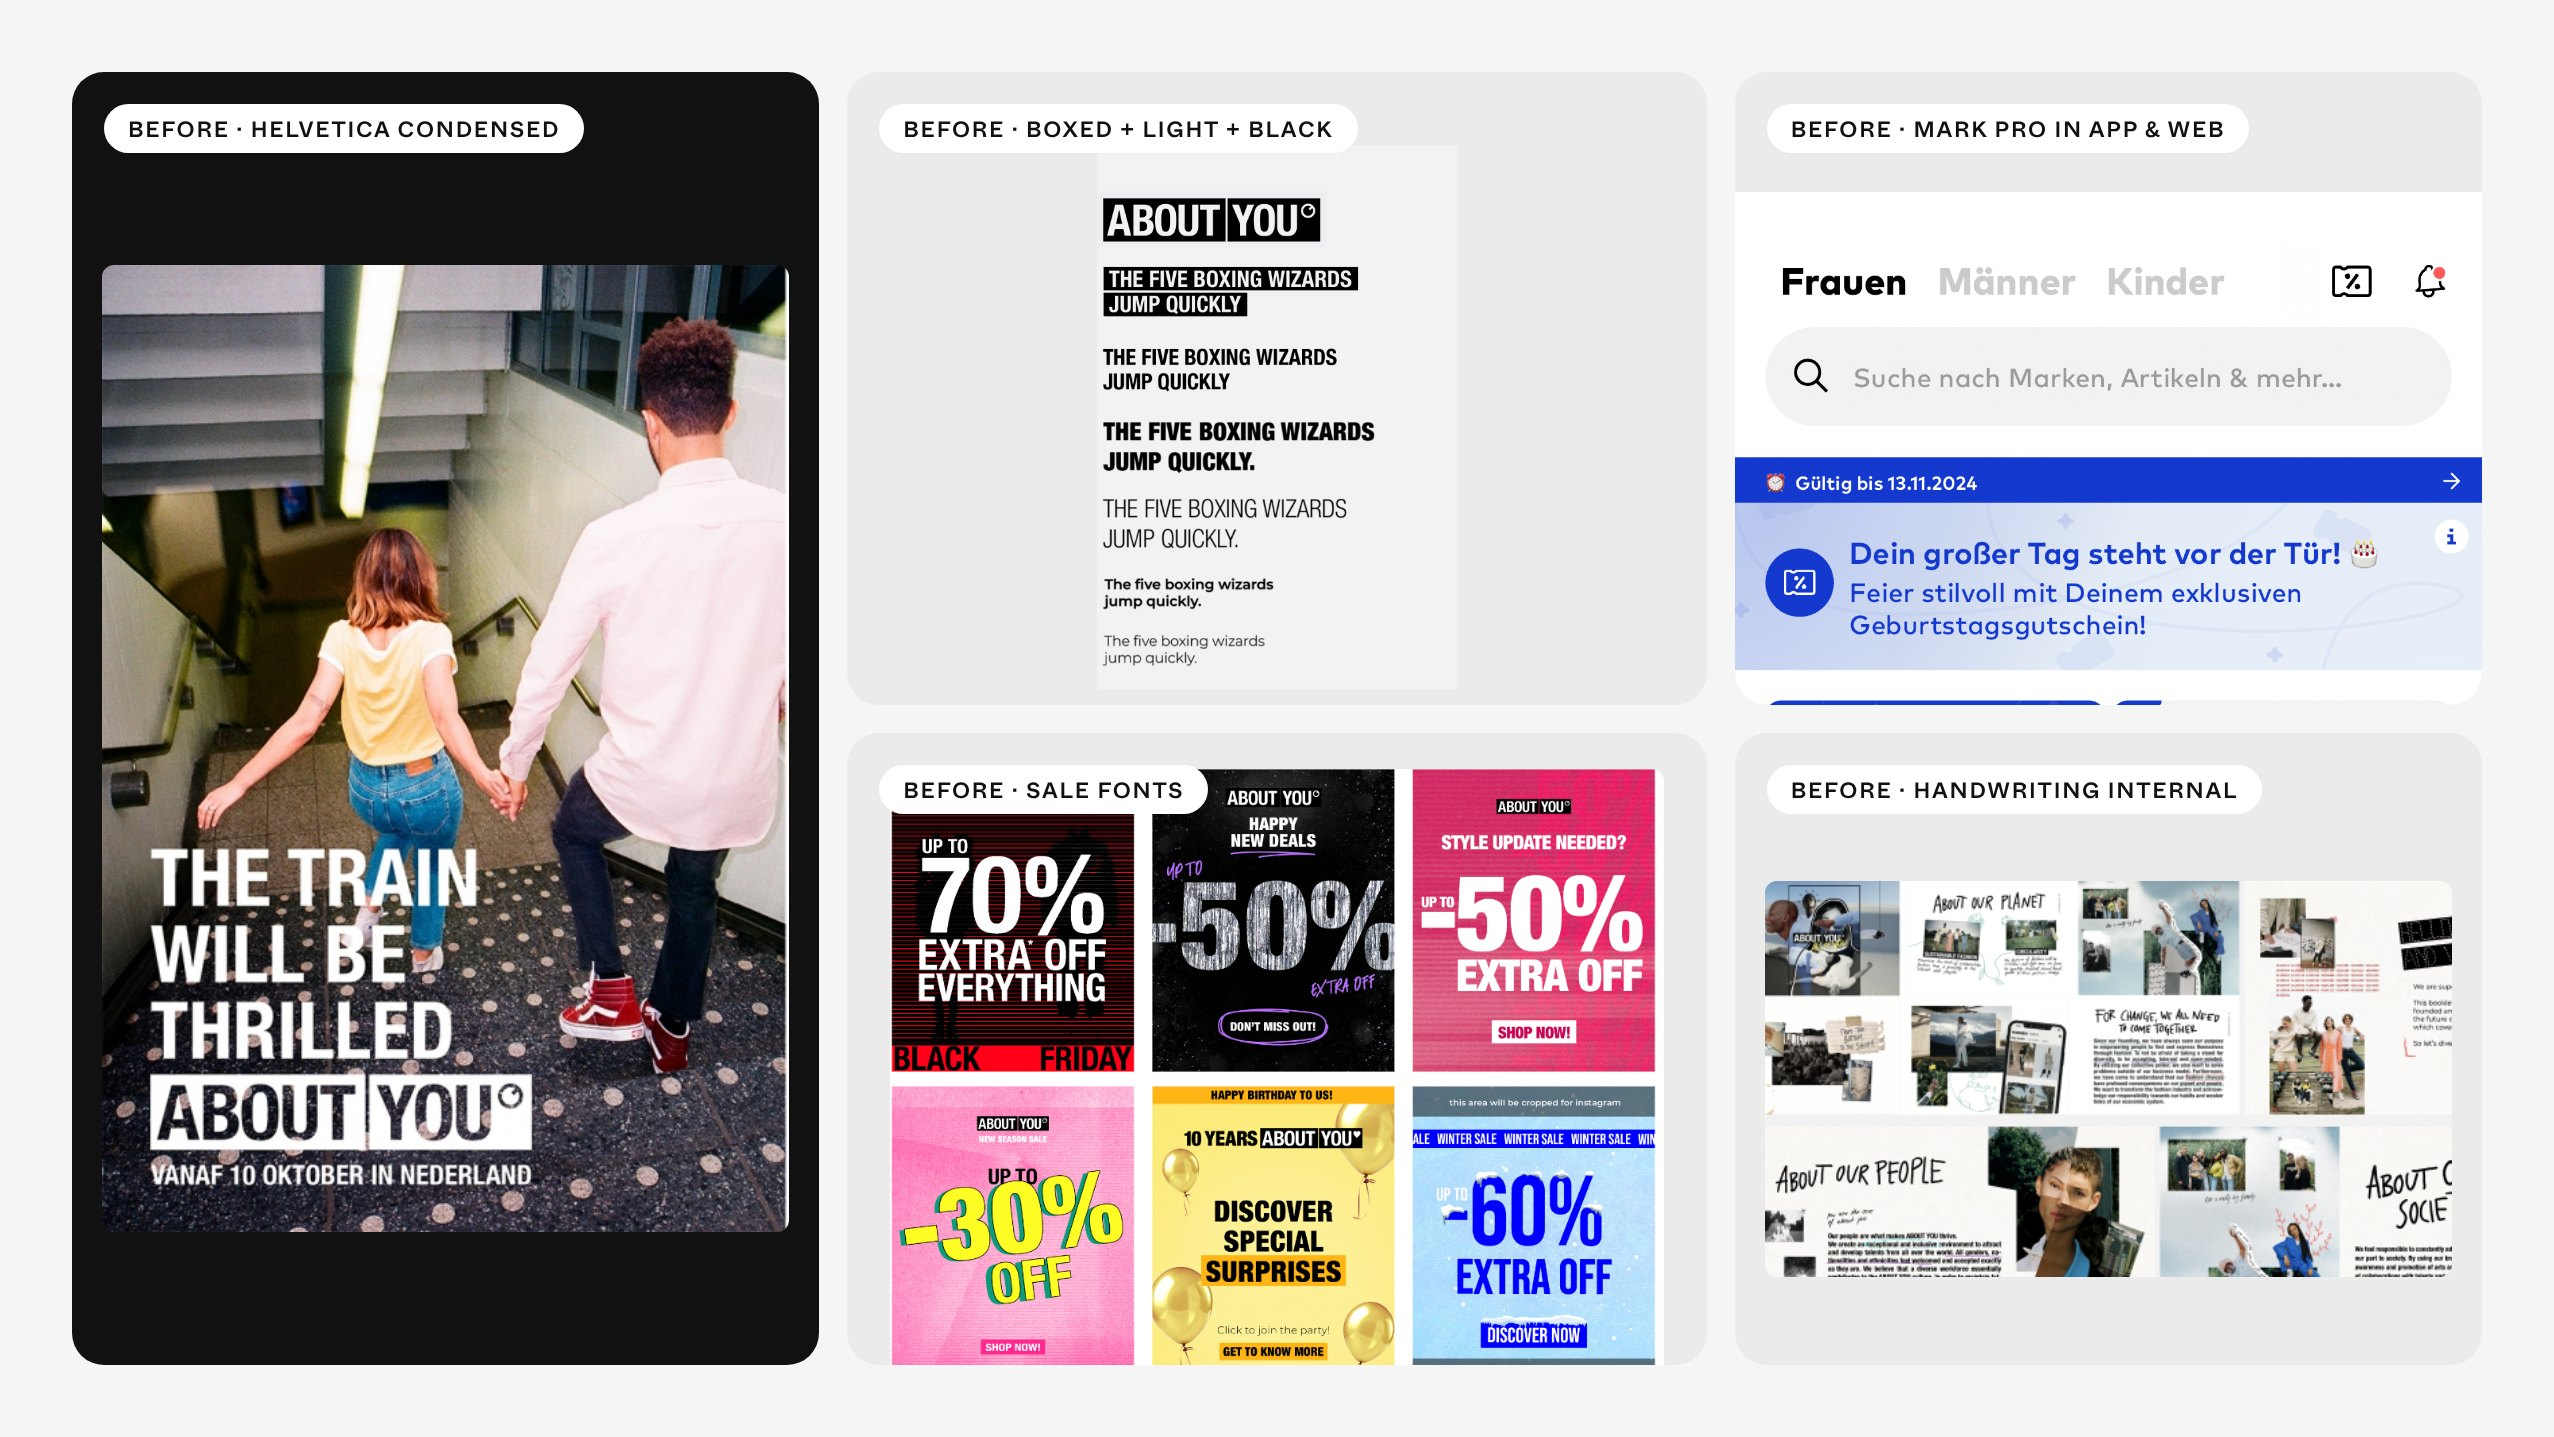
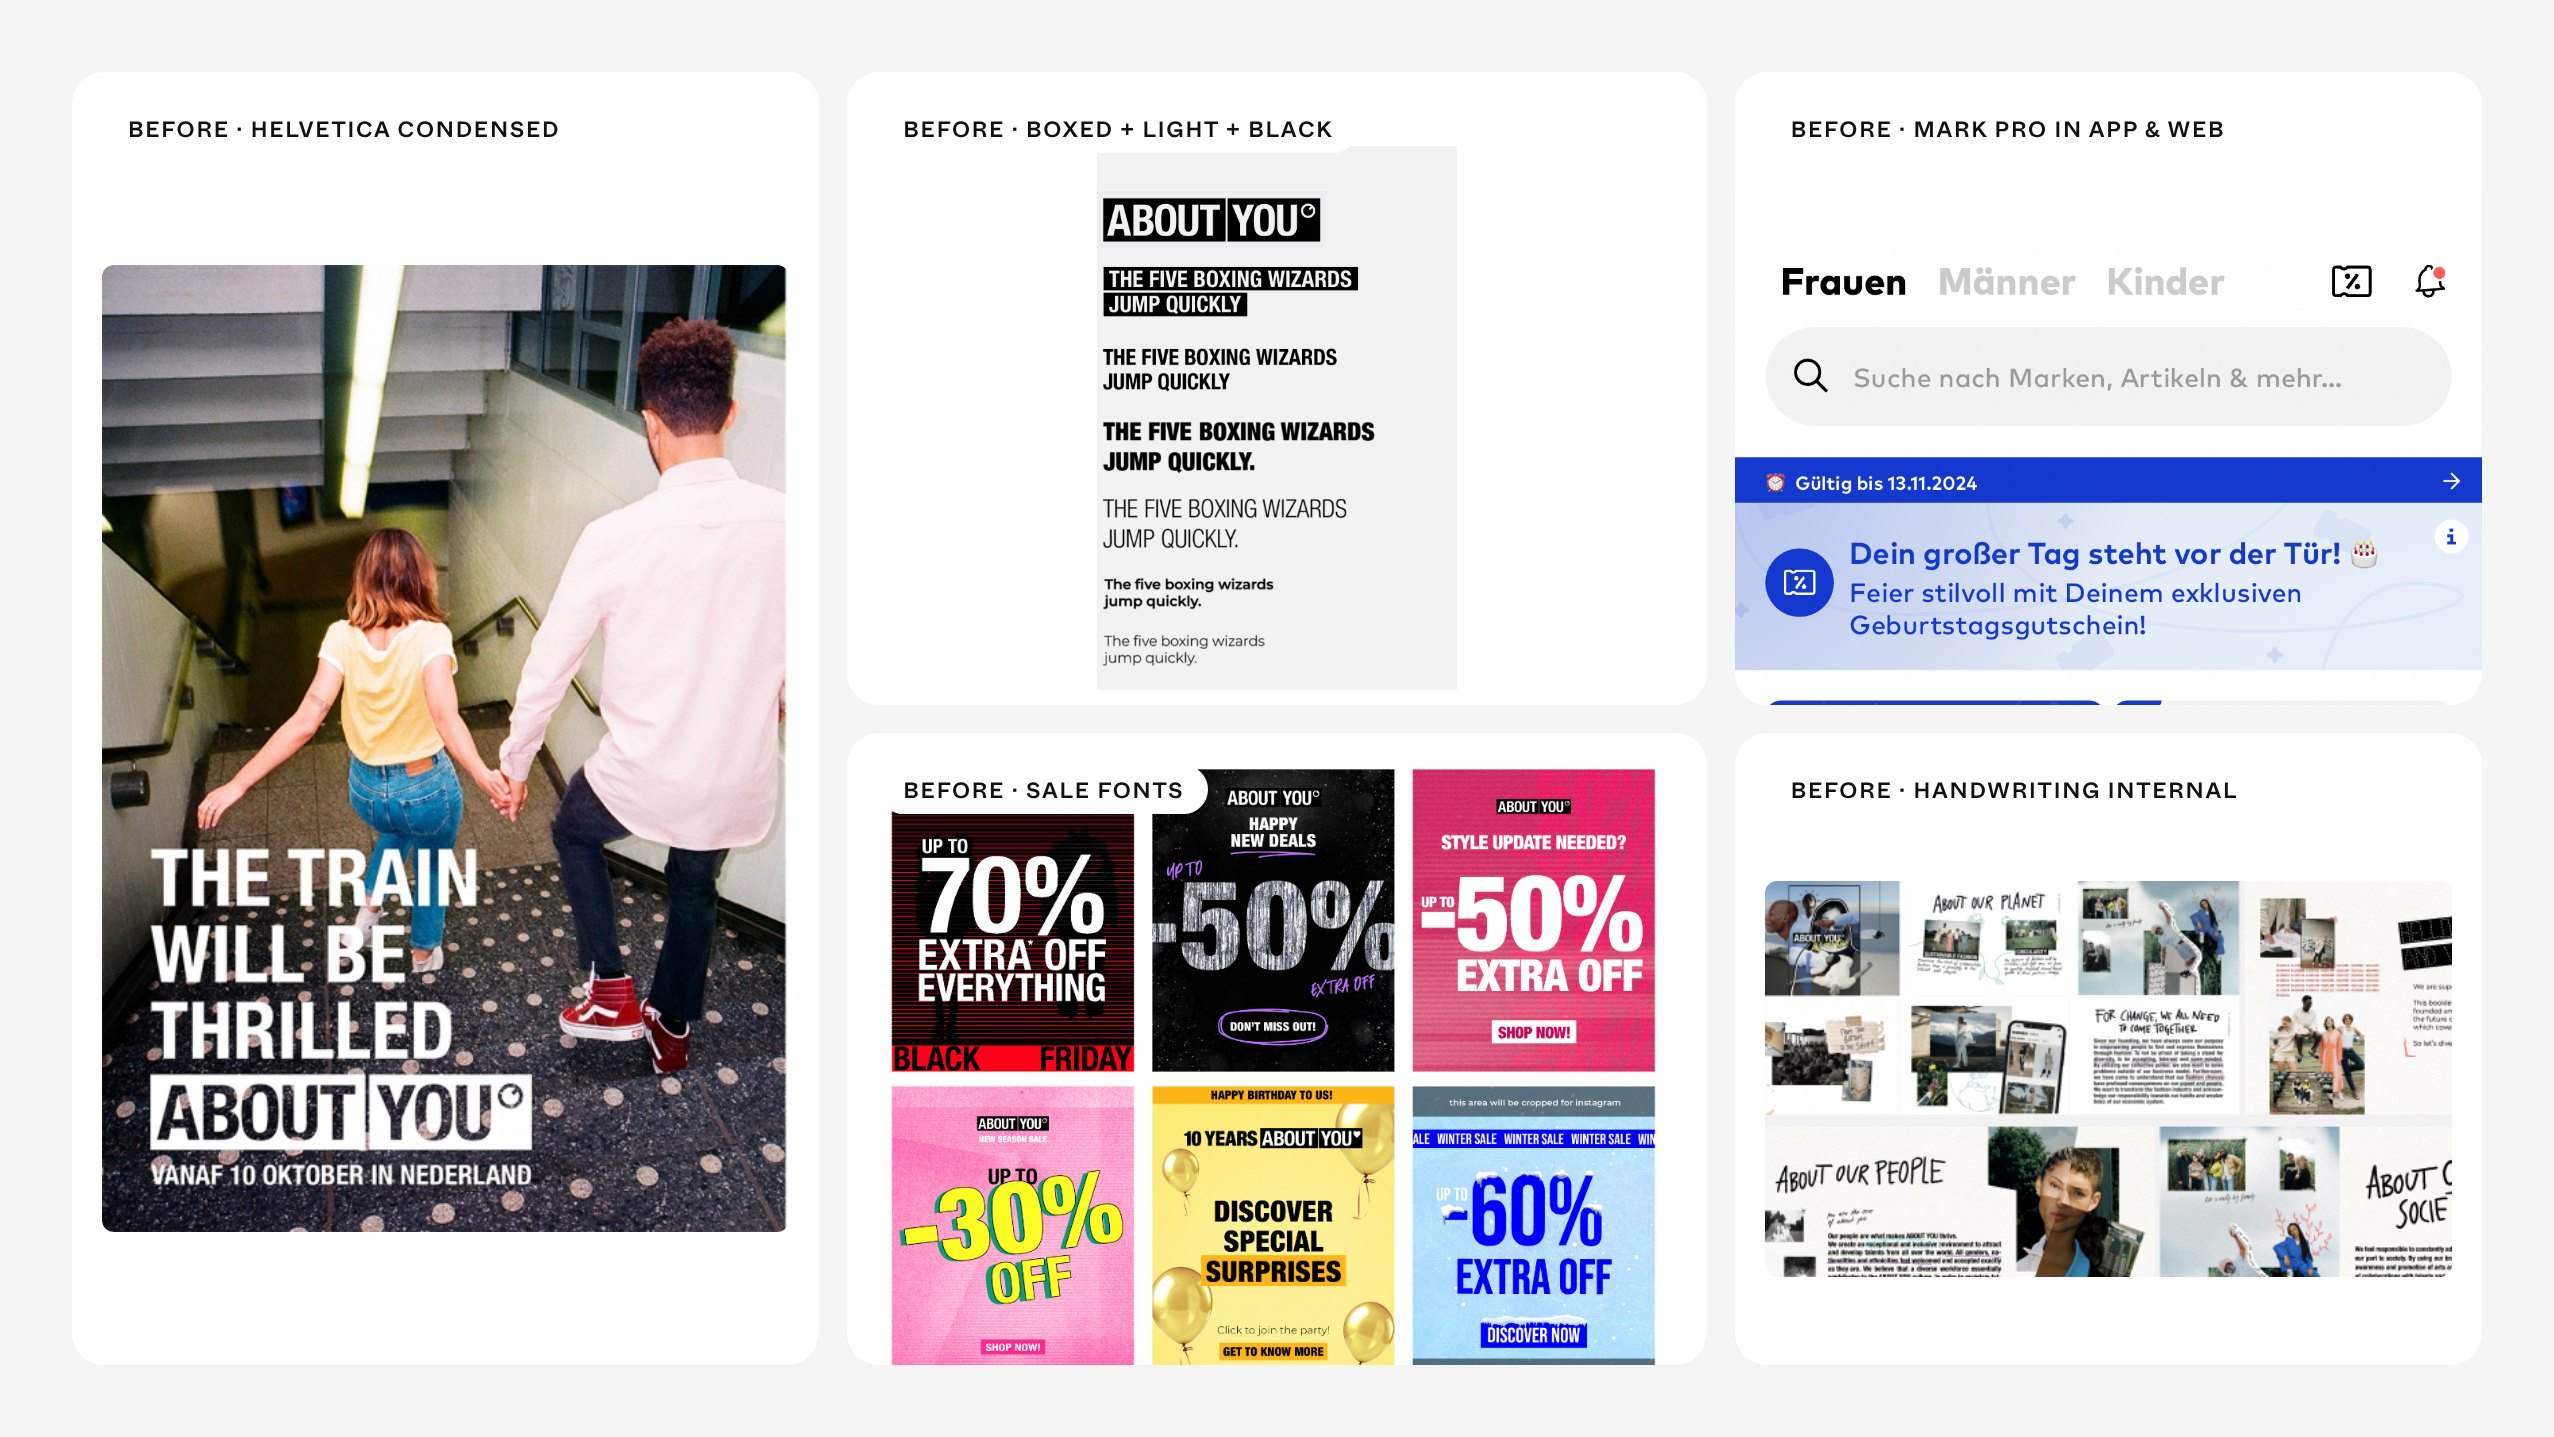
Brand Consistency: component before/after, white before tiles
- New component comparisons: font switch, icon switch, color switch,
  coupon redesign, category tiles (old app vs new design)
- All before tiles now white, no colored or dark backgrounds

Claude-Session: https://claude.ai/code/session_01EEFsaT795ng18RqbzZtwNk

Changed region(s): [[0.0309, 0.0306, 0.3403, 0.9492]]

diff --git a/index.html b/index.html
@@ -2308,7 +2308,8 @@ quoteText.textContent = '“' + q.text + '”';
             img('12-typography-before-font-mix.jpg'), img('13-typography-in-progress.jpg'), img('14-typography-after-abc-whyte.jpg'), img('15-typography-brand-guide.jpg'), img('16-poster-before-after.jpg'), img('17-screens-before-after.jpg'),
             {__type:'numbers', items:[{unit:'4+ → 1', label:'Brand fonts'},{unit:'250+', label:'Icons unified'}]},
             img('18-icons-before.jpg'), img('19-icons-after.jpg'), img('20-icons-brand-guide.jpg'),
-            img('21-campaigns-before.jpg'), img('22-campaign-types-now.jpg'), img('23-app-before-after.jpg'), img('24-ui-elements-brand-guide.jpg'), img('25-app-screens.jpg'),
+            img('21-components-font-icon-switch.jpg'), img('22-components-color-coupon.jpg'), img('23-components-category-tiles.jpg'),
+            img('24-campaigns-before.jpg'), img('25-campaign-types-now.jpg'), img('26-app-before-after.jpg'), img('27-ui-elements-brand-guide.jpg'), img('28-app-screens.jpg'),
           ];
         })(),
         facts:[{l:'Year',v:'2025–2026'},{l:'Brand',v:'About You'},{l:'Position',v:'Lead Designer'}],

diff --git a/assets/brand-consistency/CONTENT.md b/assets/brand-consistency/CONTENT.md
@@ -56,11 +56,14 @@ Composed assets, 2554×1437 JPG, set in the About You type system per brand guid
 | `18-icons-before.jpg` | Icons: before |
 | `19-icons-after.jpg` | Icons: after |
 | `20-icons-brand-guide.jpg` | Icons: brand guide |
-| `21-campaigns-before.jpg` | Campaigns: before mosaic |
-| `22-campaign-types-now.jpg` | Campaign types now: promotion, creative, coins, coupons |
-| `23-app-before-after.jpg` | App before → after |
-| `24-ui-elements-brand-guide.jpg` | Buttons and tags |
-| `25-app-screens.jpg` | App screens |
+| `21-components-font-icon-switch.jpg` | Components: font switch, icon switch (before → after) |
+| `22-components-color-coupon.jpg` | Components: color switch, coupon redesign |
+| `23-components-category-tiles.jpg` | Components: category tiles |
+| `24-campaigns-before.jpg` | Campaigns: before mosaic |
+| `25-campaign-types-now.jpg` | Campaign types now: promotion, creative, coins, coupons |
+| `26-app-before-after.jpg` | App before → after |
+| `27-ui-elements-brand-guide.jpg` | Buttons and tags |
+| `28-app-screens.jpg` | App screens |
 
 The initial analysis is rebuilt from the Figma status-quo files and the deck text. Slide images from the Google Slides deck (pages 1–126) are not included because the deck export times out.
 
@@ -82,3 +85,5 @@ The initial analysis is rebuilt from the Figma status-quo files and the deck tex
 Slides 02–19 are cropped from the Brand Guide: the black sidebar is removed and the content is centred on white, so the page reads as work rather than as a presentation. The two touchpoint graphics are built in DM Sans with the campaign lime `#C6FF00` (colors.lime.shade400). Source for the selection: Figma file `4os1bCa2fSj8h7WFla6a6f`, page "Presentation – Final result".
 
 The intro text on the live page (`index.html`, `brand-consistency` entry) has four paragraphs: context, initial analysis and positioning, touchpoint selection, result. That is the current version.
+
+All before and after tiles are white. Only the brand guide color cards use color, because there the color is the content.
